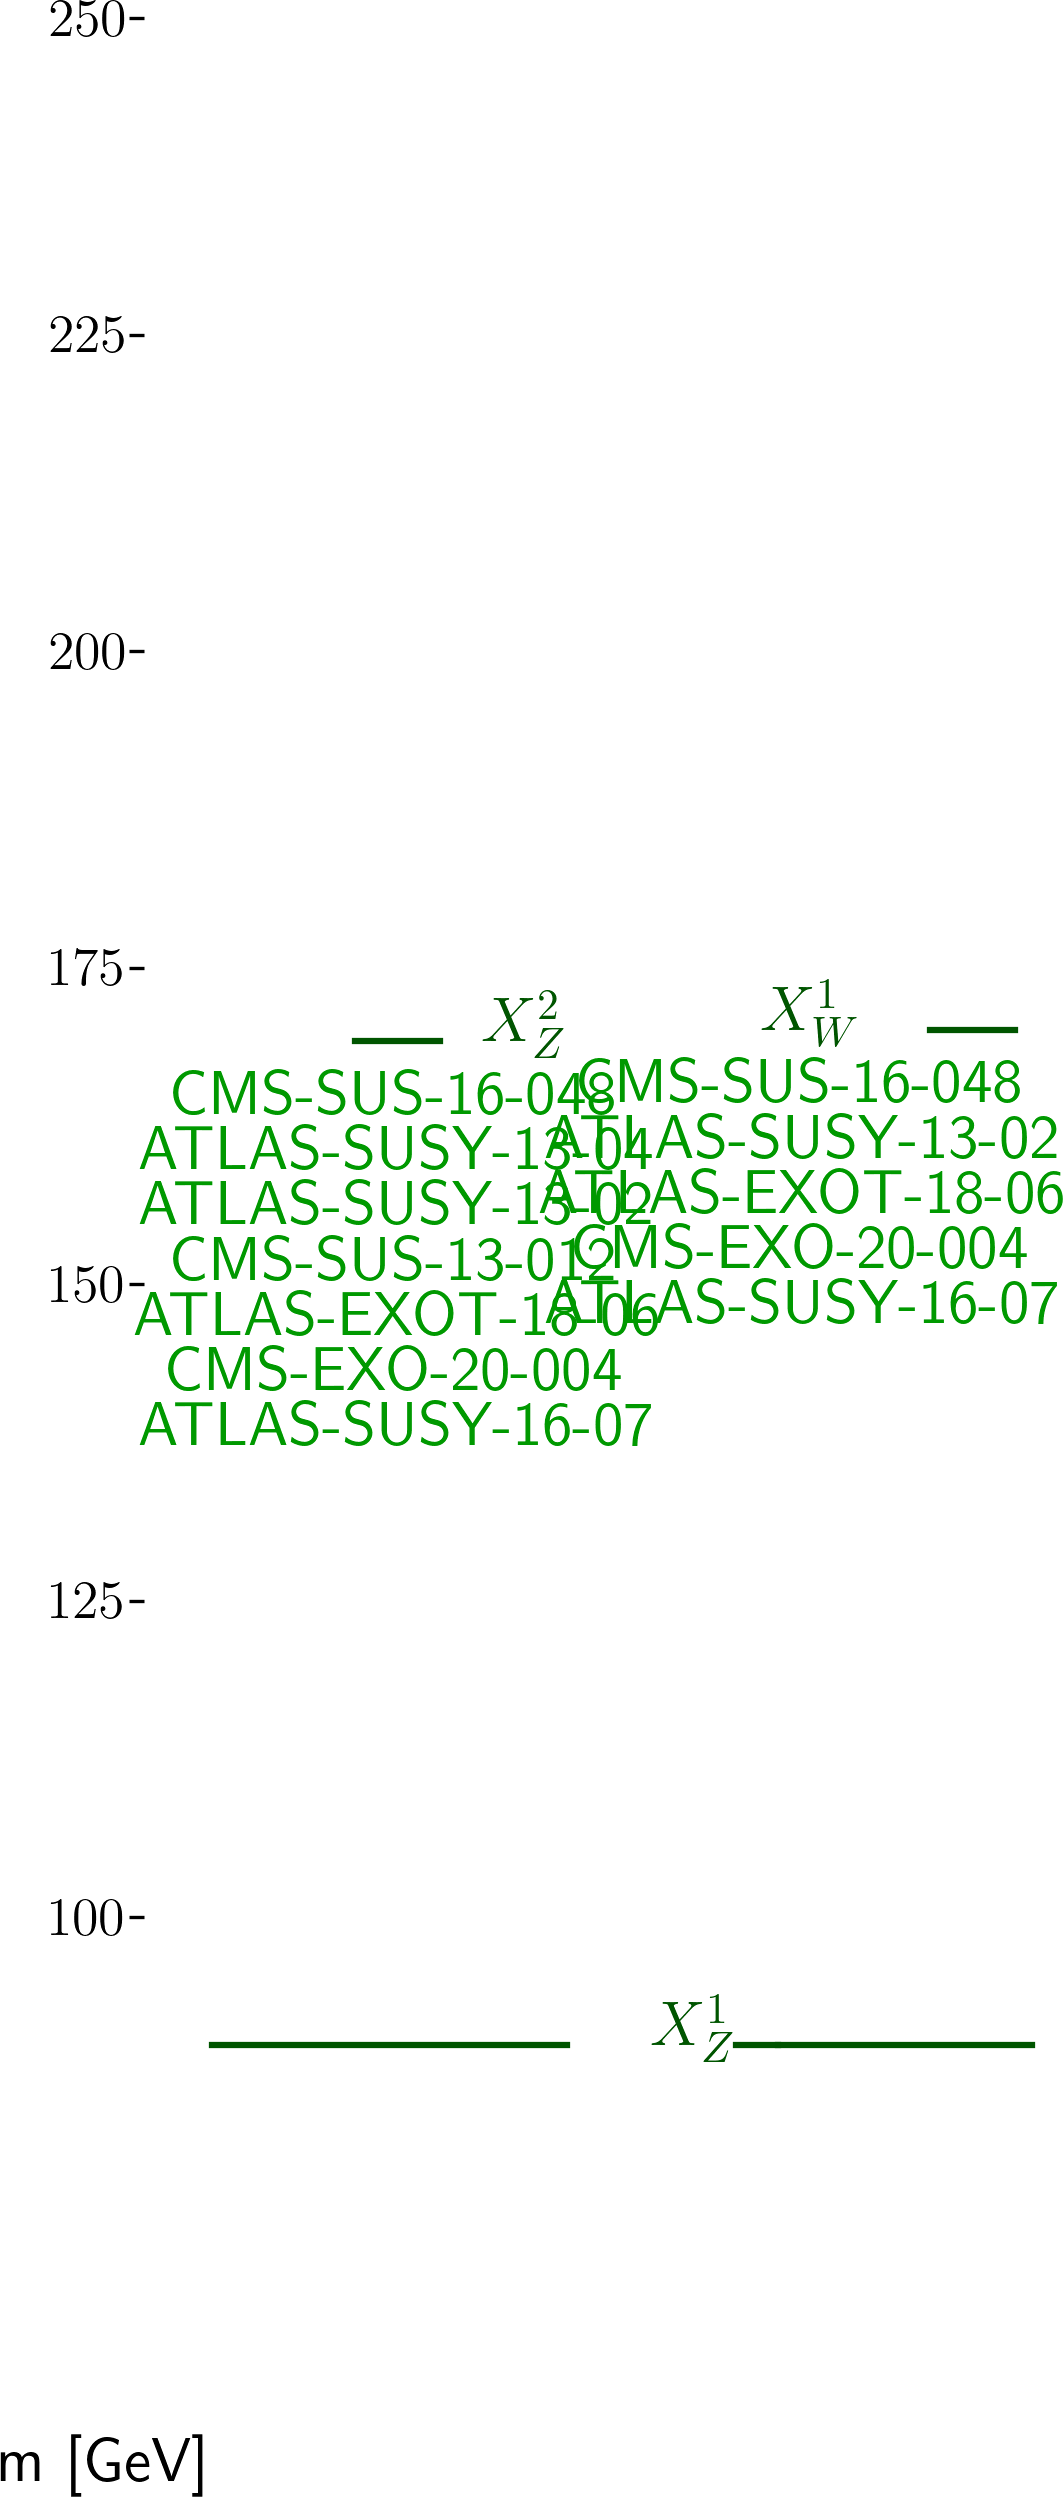
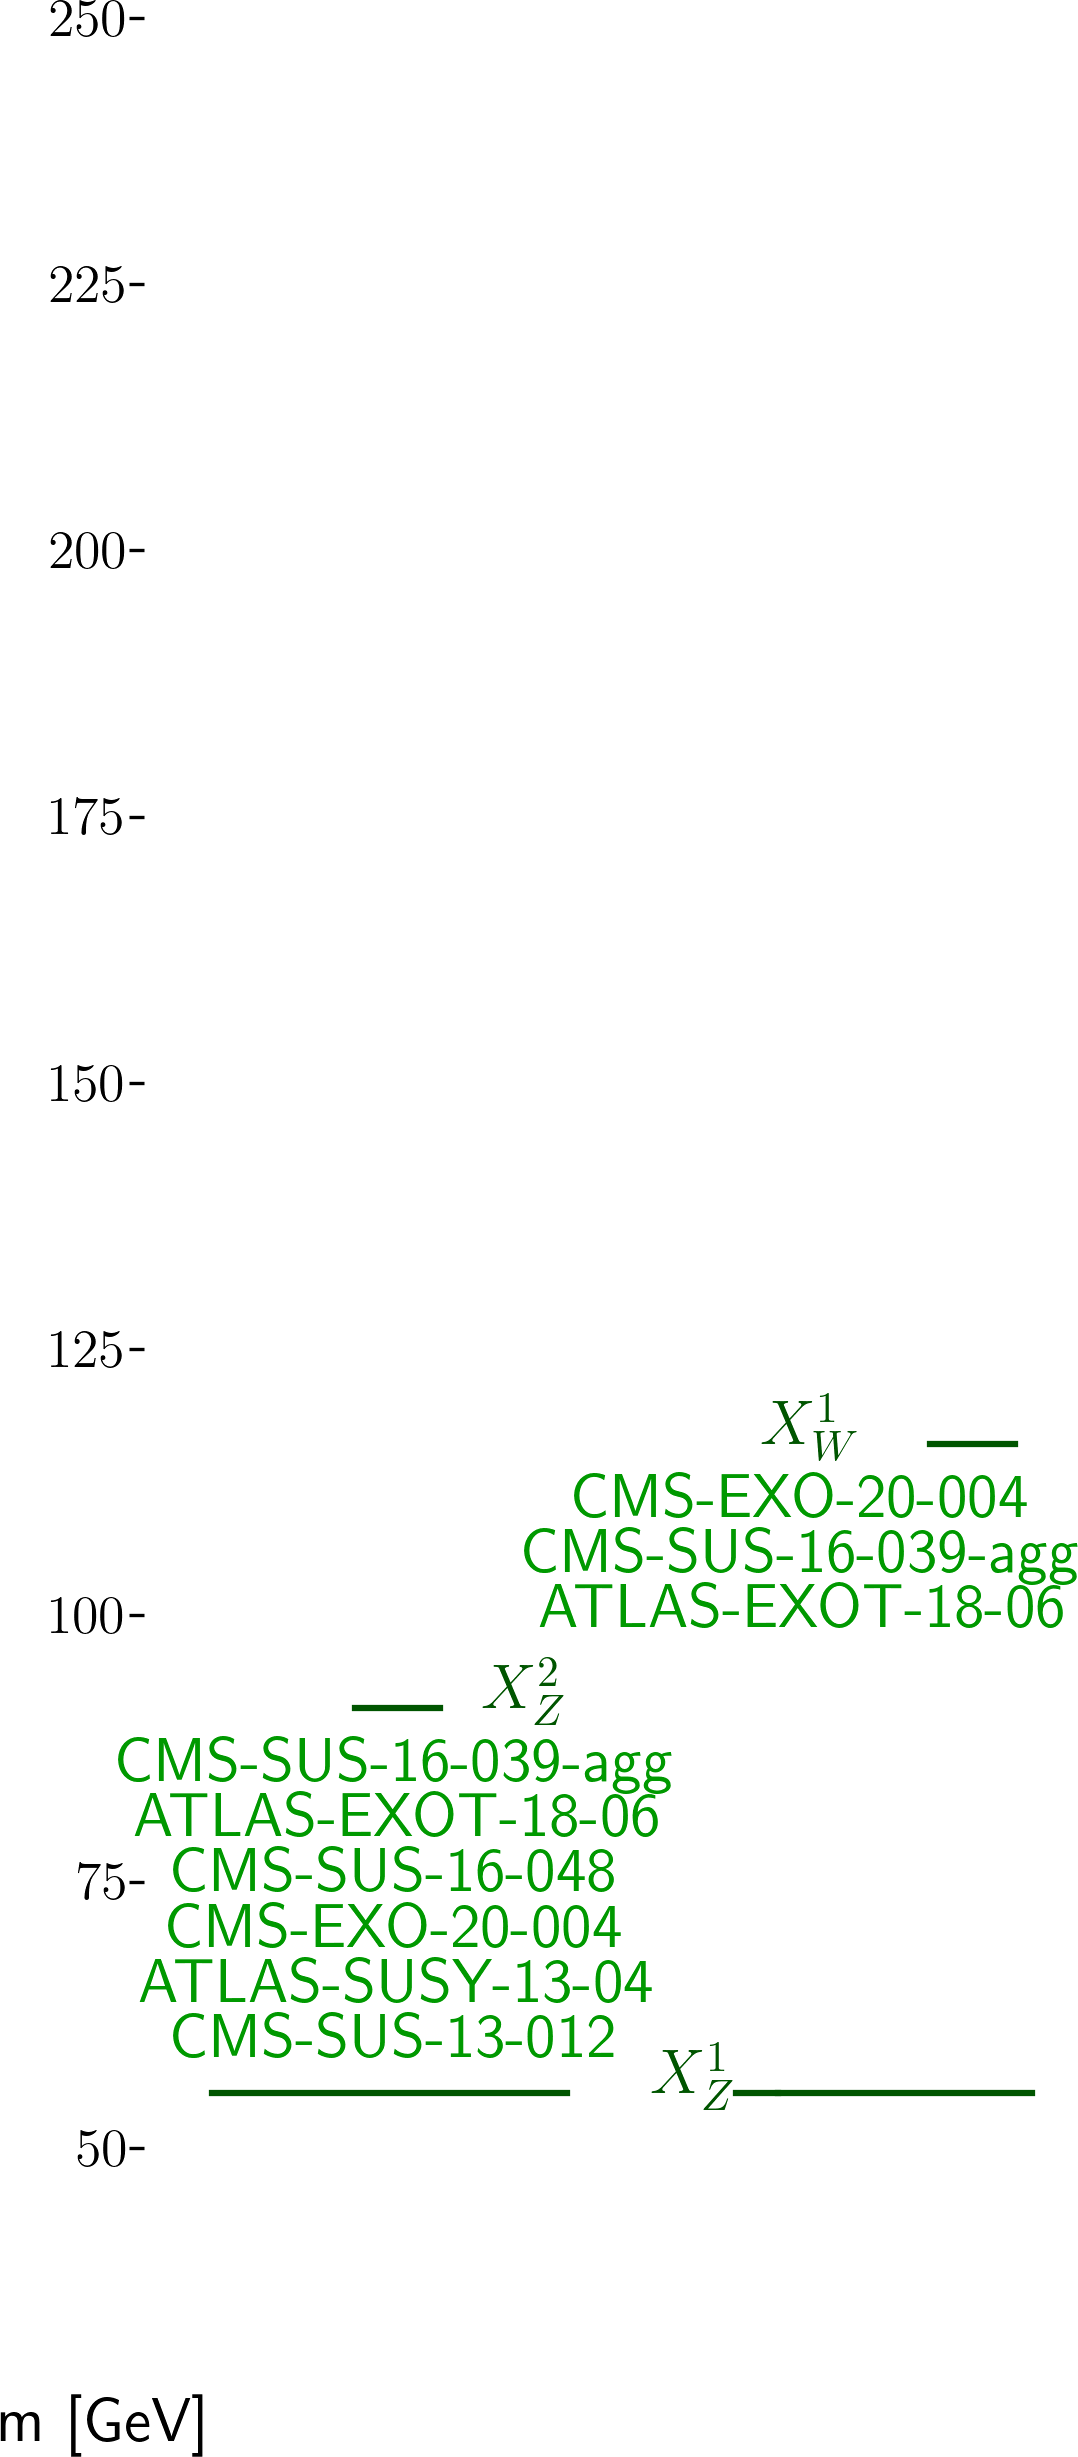
automated update by plotHiscore.py to ewk6_310:     K=11.013 TL=14.76 walkerid=0

diff --git a/protomodels/ewk6_310/rawnumbers.html b/protomodels/ewk6_310/rawnumbers.html
@@ -1,12 +1,11 @@
 <table>
 <tr><th>Analysis Name</th><th>Type</th><th>Dataset</th><th>Topos</th><th>Observed</th><th>Expected</th><th>Approx &sigma;</th><th>Particles</th>
 </tr>
-<tr><td><a href=https://atlas.web.cern.ch/Atlas/GROUPS/PHYSICS/PAPERS/EXOT-2018-06/>ATLAS-EXOT-2018-06</a></td><td>em</td> <td>EM10</td><td>TChiISR, TChiWWISRqq, TChiZISRll, TChiZISRqq</td><td>413</td><td>359.00 +/- 10.00</td><td style="text-align:right">2.5 &sigma;</td><td style="text-align:right">X<sup>1</sup><sub>W</sub>, X<sup>1</sup><sub>Z</sub>, X<sup>2</sup><sub>Z</sub></td></tr>
-<tr><td><a href=http://cms-results.web.cern.ch/cms-results/public-results/publications/EXO-20-004/>CMS-EXO-20-004</a></td><td>comb</td> <td>-</td><td>TChiISR, TChiWWISRqq, TChiZISRll, TChiZISRqq</td><td> 1e+02 fb </td><td> 1e+02 fb</td><td style="text-align:right">2.3 &sigma;</td><td style="text-align:right">X<sup>1</sup><sub>W</sub>, X<sup>1</sup><sub>Z</sub>, X<sup>2</sup><sub>Z</sub></td></tr>
-<tr><td><a href=http://cms-results.web.cern.ch/cms-results/public-results/publications/SUS-16-048/index.html>CMS-SUS-16-048</a></td><td>comb</td> <td>-</td><td>TChiWZoff</td><td> 2 fb </td><td> 1 fb</td><td style="text-align:right">1.6 &sigma;</td><td style="text-align:right">X<sup>1</sup><sub>W</sub>, X<sup>1</sup><sub>Z</sub>, X<sup>2</sup><sub>Z</sub></td></tr>
-<tr><td><a href=https://atlas.web.cern.ch/Atlas/GROUPS/PHYSICS/PAPERS/SUSY-2016-07/>ATLAS-SUSY-2016-07</a></td><td>em</td> <td>4j_Meff_1400</td><td>T1</td><td>199</td><td>182.00 +/- 16.00</td><td style="text-align:right">0.8 &sigma;</td><td style="text-align:right">X<sup>1</sup><sub>W</sub>, X<sup>1</sup><sub>Z</sub>, X<sup>2</sup><sub>Z</sub></td></tr>
-<tr><td><a href=https://twiki.cern.ch/twiki/bin/view/CMSPublic/PhysicsResultsSUS13012>CMS-SUS-13-012</a></td><td>em</td> <td>6NJet8_800HT100 ...</td><td>T1bbbb</td><td>35</td><td>28.60 +/- 6.90</td><td style="text-align:right">0.8 &sigma;</td><td style="text-align:right">X<sup>1</sup><sub>Z</sub>, X<sup>2</sup><sub>Z</sub></td></tr>
-<tr><td><a href=https://atlas.web.cern.ch/Atlas/GROUPS/PHYSICS/PAPERS/SUSY-2013-02/>ATLAS-SUSY-2013-02</a></td><td>em</td> <td>SR6jl</td><td>T1</td><td>121</td><td>111.00 +/- 11.00</td><td style="text-align:right">0.7 &sigma;</td><td style="text-align:right">X<sup>1</sup><sub>W</sub>, X<sup>1</sup><sub>Z</sub>, X<sup>2</sup><sub>Z</sub></td></tr>
+<tr><td><a href=https://atlas.web.cern.ch/Atlas/GROUPS/PHYSICS/PAPERS/EXOT-2018-06/>ATLAS-EXOT-2018-06</a></td><td>em</td> <td>EM10</td><td>TChiISR, TChiWISRll, TChiWWISRqq, TChiZISRll, TChiZISRqq</td><td>413</td><td>359.00 +/- 10.00</td><td style="text-align:right">2.5 &sigma;</td><td style="text-align:right">X<sup>1</sup><sub>W</sub>, X<sup>1</sup><sub>Z</sub>, X<sup>2</sup><sub>Z</sub></td></tr>
+<tr><td><a href=http://cms-results.web.cern.ch/cms-results/public-results/publications/SUS-16-039/index.html>CMS-SUS-16-039-agg</a></td><td>comb</td> <td>-</td><td>TChiWZoff</td><td> 2 fb </td><td> 0.9 fb</td><td style="text-align:right">1.9 &sigma;</td><td style="text-align:right">X<sup>1</sup><sub>W</sub>, X<sup>1</sup><sub>Z</sub>, X<sup>2</sup><sub>Z</sub></td></tr>
+<tr><td><a href=http://cms-results.web.cern.ch/cms-results/public-results/publications/EXO-20-004/>CMS-EXO-20-004</a></td><td>comb</td> <td>-</td><td>TChiISR, TChiWISRll, TChiWWISRqq, TChiZISRll, TChiZISRqq</td><td> 1e+02 fb </td><td> 1e+02 fb</td><td style="text-align:right">1.7 &sigma;</td><td style="text-align:right">X<sup>1</sup><sub>W</sub>, X<sup>1</sup><sub>Z</sub>, X<sup>2</sup><sub>Z</sub></td></tr>
+<tr><td><a href=https://twiki.cern.ch/twiki/bin/view/CMSPublic/PhysicsResultsSUS13012>CMS-SUS-13-012</a></td><td>em</td> <td>3NJet6_800HT100 ...</td><td>T1bbbb</td><td>124</td><td>108.00 +/- 15.00</td><td style="text-align:right">0.9 &sigma;</td><td style="text-align:right">X<sup>1</sup><sub>Z</sub>, X<sup>2</sup><sub>Z</sub></td></tr>
+<tr><td><a href=http://cms-results.web.cern.ch/cms-results/public-results/publications/SUS-16-048/index.html>CMS-SUS-16-048</a></td><td>comb</td> <td>-</td><td>TChiWZoff</td><td> 1 fb </td><td> 1 fb</td><td style="text-align:right">0.9 &sigma;</td><td style="text-align:right">X<sup>1</sup><sub>W</sub>, X<sup>1</sup><sub>Z</sub>, X<sup>2</sup><sub>Z</sub></td></tr>
 <tr><td><a href=https://atlas.web.cern.ch/Atlas/GROUPS/PHYSICS/PAPERS/SUSY-2013-04/>ATLAS-SUSY-2013-04</a></td><td>em</td> <td>GtGrid_SR_8ej50 ...</td><td>T1bbbb</td><td>44</td><td>40.00 +/- 10.00</td><td style="text-align:right">0.4 &sigma;</td><td style="text-align:right">X<sup>1</sup><sub>Z</sub>, X<sup>2</sup><sub>Z</sub></td></tr>
 </table>
 <table style='color:grey'>

diff --git a/protomodels/ewk6_310/index.html b/protomodels/ewk6_310/index.html
@@ -1,24 +1,24 @@
 <html>
 <body>
 <center>
-<table><td><h1>Current best protomodel: <i>K</i>=10.91, <i>TL</i>=14.66</h1><td><img height=60px src=https://smodels.github.io//protomodels/logos/protomodel_lego.png></table>
+<table><td><h1>Current best protomodel: <i>K</i>=None, <i>TL</i>=14.25</h1><td><img height=60px src=https://smodels.github.io//protomodels/logos/protomodel_lego.png></table>
 </center>
-<b><a href=./hiscore.slha>ProtoModel</a> <a href=./pmodel.dict>(dict)</a> produced with <a href=https://smodels.github.io//docs/Validation310>database v3.1.0</a>, combination strategy <a href=./matrix.png>aggressive</a> in walker 0 step 12.</b> <br>
+<b><a href=./hiscore.slha>ProtoModel</a> <a href=./pmodel.dict>(dict)</a> produced with <a href=https://smodels.github.io//docs/Validation310>database v3.1.0</a>, combination strategy <a href=./matrix.png>aggressive</a> in walker 0 step 87.</b> <br>
 <table width=80%>
 <tr><td>
 <br><b>Critics:</b> passed both critics<br>
-<br><b>LLHD Critic:</b> CMS-SUS-16-048:combined, ATLAS-EXOT-2018-06:EM5, CMS-EXO-20-004:combined, ATLAS-SUSY-2016-07:4j_Meff_1400, ATLAS-SUSY-2013-02:SR4jlm:: <span style='color: darkgreen;'>robs=0.85</span><br>
-<br><b>7 predictions available. Highest r values are:</b><br><ul>
-<li><a href=https://atlas.web.cern.ch/Atlas/GROUPS/PHYSICS/PAPERS/EXOT-2018-06/>ATLAS-EXOT-2018-06</a>:EM5:TChiZISRll,TChiZISRqq,TChiWWISRqq,TChiISR r=0.83, r<sub>exp</sub>=0.86<br>
-<li><a href=http://cms-results.web.cern.ch/cms-results/public-results/publications/SUS-16-048/index.html>CMS-SUS-16-048</a>:stop_lowMET_PT_20to30:TChiWZoff r=0.66, r<sub>exp</sub>=1.08<br>
-<li><a href=https://atlas.web.cern.ch/Atlas/GROUPS/PHYSICS/PAPERS/SUSY-2016-07/>ATLAS-SUSY-2016-07</a>:4j_Meff_1400:T1 r=0.54, r<sub>exp</sub>=0.75<br>
-<li><a href=http://cms-results.web.cern.ch/cms-results/public-results/publications/EXO-20-004/>CMS-EXO-20-004</a>:SR_2018_11:TChiZISRll,TChiZISRqq,TChiWWISRqq,TChiISR r=0.20, r<sub>exp</sub>=0.27<br>
+<br><b>LLHD Critic:</b> ATLAS-EXOT-2018-06:EM5, CMS-SUS-16-039-agg:combined, CMS-EXO-20-004:combined, CMS-SUS-16-048:combined:: <span style='color: darkgreen;'>robs=0.81</span><br>
+<br><b>6 predictions available. Highest r values are:</b><br><ul>
+<li><a href=https://atlas.web.cern.ch/Atlas/GROUPS/PHYSICS/PAPERS/EXOT-2018-06/>ATLAS-EXOT-2018-06</a>:EM5:TChiZISRll,TChiZISRqq,TChiWWISRqq,TChiWISRll,TChiISR r=1.05, r<sub>exp</sub>=1.09<br>
+<li><a href=http://cms-results.web.cern.ch/cms-results/public-results/publications/SUS-16-039/index.html>CMS-SUS-16-039-agg</a>:AR3:TChiWZoff r=0.32, r<sub>exp</sub>=0.62<br>
+<li><a href=http://cms-results.web.cern.ch/cms-results/public-results/publications/EXO-20-004/>CMS-EXO-20-004</a>:SR_2016_7:TChiZISRll,TChiZISRqq,TChiWWISRqq,TChiWISRll,TChiISR r=0.30, r<sub>exp</sub>=0.28<br>
+<li><a href=http://cms-results.web.cern.ch/cms-results/public-results/publications/SUS-16-048/index.html>CMS-SUS-16-048</a>:Ewkino_lowMET_M_10to20:TChiWZoff r=0.13, r<sub>exp</sub>=0.17<br>
 </ul>
-<td><img width=600px src=./texdoc.png?1755872269>
-<br><span style='font-size: smaller; color: darkred;'>Last updated: Fri Aug 22 16:17:49 2025</span>
+<td><img width=600px src=./texdoc.png?1755874608>
+<br><span style='font-size: smaller; color: darkred;'>Last updated: Fri Aug 22 16:56:48 2025</span>
 </table><table style="width:80%">
-<td width=45%><img height=580px src=./ruler.png?1755872269><td width=55%><img height=220px src=./decays.png?1755872269>
-<font size=-3><iframe type="text/html" height="350px" width="100%" frameborder="0" src="./rawnumbers.html?1755872269"></iframe></font>
+<td width=45%><img height=580px src=./ruler.png?1755874608><td width=55%><img height=220px src=./decays.png?1755874608>
+<font size=-3><iframe type="text/html" height="350px" width="100%" frameborder="0" src="./rawnumbers.html?1755874608"></iframe></font>
 </table>
 </body>
 </html>
